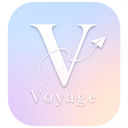
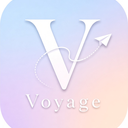
fix(web): 退出登录回到首页，站点图标去白边
- useLogout 登出后 router.replace('/')，不再强制跳登录页
- voyage-mark-128 / favicon-32 / apple-touch-icon 重新裁切，去除图标外圈白边
- 同步更新 AppNavbar 的图标说明注释

diff --git a/web/src/components/AppNavbar.vue b/web/src/components/AppNavbar.vue
@@ -140,10 +140,10 @@ onUnmounted(() => {
                资源分工：apple-touch-icon / favicon-32 / voyage-mark 三件套
                由 voyage-mark.jpeg 扩展而来，用于站点与导航栏；
                voyage-mark-2.* 专供对话页与登录页。
-               此版内边距仅 1.5%/边，内容占画布 88%/97%——
-               横向做不到 100% 是因为源内容本身是 646x713 的竖形，
-               塞进正方形只能横向多留一点（要铺满就得裁掉内容）。
-               34px 显示、3 倍屏需 102px，128 足够且体积只有 15.5 KB。 -->
+               此版已去白边并满幅裁切：内容铺满整个画布，
+               源图 646x713 偏竖，故裁掉少量上下边缘换取横向铺满；
+               圆角处的白点由容器自身的圆角遮挡。
+               34px 显示、3 倍屏需 102px，128 足够且体积可控。 -->
           <img src="/voyage-mark-128.png" alt="" />
         </span>
         <span class="brand__text">Voyage <em>AI</em></span>

diff --git a/web/src/composables/useLogout.ts b/web/src/composables/useLogout.ts
@@ -38,7 +38,9 @@ export function useLogout() {
     }
     user.clearAuth()
     ui.toast('已退出登录', 'success')
-    router.replace('/login')
+    // 统一回主页（游客态首页）：不必把用户推到登录页，
+    // 首页本身可浏览，用户想继续用再自行去登录。
+    router.replace('/')
   }
 
   return { doLogout }
